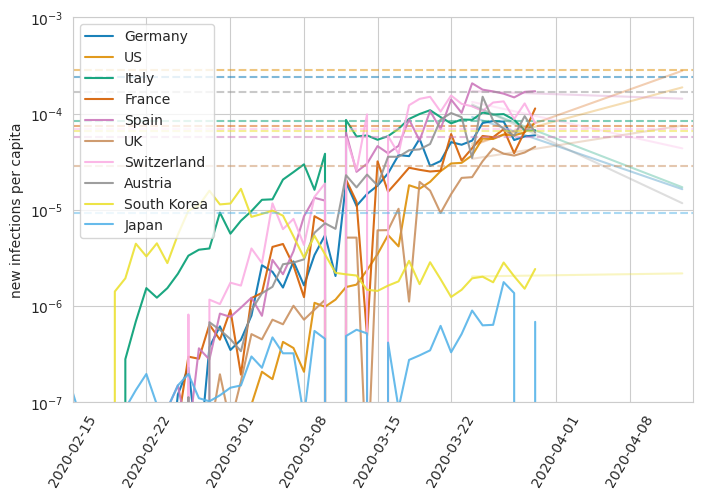
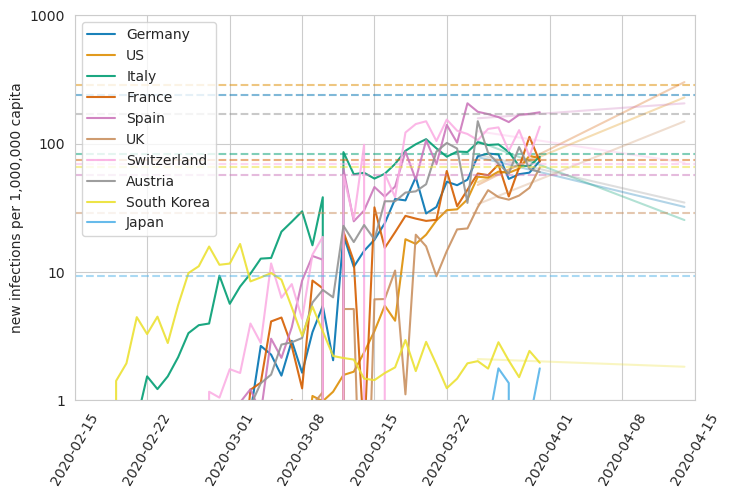
Change units of some plots from per capita to per 1,000,000 capita

diff --git a/kovid.py b/kovid.py
@@ -3,6 +3,7 @@ import numpy as np
 import scipy as sp
 import scipy.interpolate
 import matplotlib.pyplot as plt
+from matplotlib.ticker import ScalarFormatter
 import seaborn as sbn
 from os import listdir
 from os.path import isfile, join
@@ -327,7 +328,7 @@ def plot_new_infected(
         nr_inhabitants = country_list[c][0]
 
         icu_time = 18  # days
-        icu_limit = get_icu_limit(
+        icu_limit = 1e6*get_icu_limit(
             icus_per_capita=country_list[c][1], duration_of_stay=icu_time
         )
         icu_limit_max = icu_limit if icu_limit > icu_limit_max else icu_limit_max
@@ -339,7 +340,7 @@ def plot_new_infected(
                 np.max(ts.Date) + pd.Timedelta(forecast, unit="d"),
             ]
 
-        infected = np.array(ts["New Infections"]) / nr_inhabitants
+        infected = 1e6*np.array(ts["New Infections"]) / nr_inhabitants
 
         # Extrapolate based on the last 7 days
         _f = log_extrapol(np.arange(ext_base), infected[-ext_base:])
@@ -362,20 +363,22 @@ def plot_new_infected(
         ax.plot(date_lim, 2*[icu_limit], "--", color=pl.get_color(), alpha=0.5)
 
     ax.tick_params(axis="x", rotation=60)
+    # ax.yaxis.set_major_formatter(FormatStrFormatter('%.2f'))
     ax.set_xlim(date_lim)
-    ax.set_ylim([1e-7, 1e-3])
+    ax.set_ylim([1e0, 1e3])
     ax.grid(True)
     if scale == "log":
         ax.set_yscale("log")
     else:
         ax.set_ylim([0, 1.3 * icu_limit_max])
+    ax.yaxis.set_major_formatter(ScalarFormatter())
     if len(country_list) == 1:
-        ax.set_ylabel("new infections per capita ({})".format(country_list[0]))
+        ax.set_ylabel("new infections per 1,000,000 capita ({})".format(country_list[0]))
         fname = "{}_new_infections.png".format(
             country_list[0].replace(" ", "_").lower()
         )
     else:
-        ax.set_ylabel("new infections per capita")
+        ax.set_ylabel("new infections per 1,000,000 capita")
         fname = "{}_new_infections.png".format("countries")
         ax.legend()
     plt.savefig("png/" + fname, bbox_inches="tight")
@@ -393,7 +396,7 @@ def plot_confirmed(
 
         nr_inhabitants = country_list[c][0]
 
-        icu_limit = get_icu_limit(icus_per_capita=country_list[c][1])
+        icu_limit = 1e6*get_icu_limit(icus_per_capita=country_list[c][1])
 
         # Derive date limits if none are given
         if date_lim is None:
@@ -402,7 +405,7 @@ def plot_confirmed(
                 np.max(ts.Date) + pd.Timedelta(forecast, unit="d"),
             ]
 
-        confirmed = np.array(ts.Confirmed) / nr_inhabitants
+        confirmed = 1e6*np.array(ts.Confirmed) / nr_inhabitants
 
         # Extrapolate based on the last 7 days
         # _f = log_interp1d(np.arange(ext_base)[::ext_base-1], confirmed[-ext_base:][::ext_base-1])
@@ -425,19 +428,20 @@ def plot_confirmed(
             color=pl.get_color(),
             alpha=0.3,
         )
-        ax.plot(date_lim, 2 * [icu_limit], "--", color=pl.get_color(), alpha=0.9)
+        ax.plot(date_lim, 2 * [icu_limit], "--", color=pl.get_color(), alpha=0.5)
 
     ax.tick_params(axis="x", rotation=60)
     ax.set_xlim(date_lim)
-    ax.set_ylim([1e-6, 1e-1])
+    ax.set_ylim([1e0, 1e4])
     ax.grid(True)
     if scale == "log":
         ax.set_yscale("log")
+    ax.yaxis.set_major_formatter(ScalarFormatter())
     if len(country_list) == 1:
-        ax.set_ylabel("confirmed cases per capita ({})".format(country_list[0]))
+        ax.set_ylabel("confirmed cases per 1,000,000 capita ({})".format(country_list[0]))
         fname = "{}_confirmed.png".format(country_list[0].replace(" ", "_").lower())
     else:
-        ax.set_ylabel("confirmed cases per capita")
+        ax.set_ylabel("confirmed cases per 1,000,000 capita")
         fname = "{}_confirmed.png".format("countries")
         ax.legend()
     plt.savefig("png/" + fname, bbox_inches="tight")
@@ -487,7 +491,7 @@ def plot_estimated_from_delay(
             color=pl.get_color(),
             alpha=0.3,
         )
-        ax.plot(date_lim, 2 * [icu_limit], "--", color=pl.get_color(), alpha=0.9)
+        ax.plot(date_lim, 2 * [icu_limit], "--", color=pl.get_color(), alpha=0.5)
 
     ax.tick_params(axis="x", rotation=60)
     ax.set_xlim(date_lim)
@@ -521,17 +525,17 @@ def plot_estimated_from_deaths(
 
         nr_inhabitants = country_list[c][0]
 
-        icu_limit = get_icu_limit(icus_per_capita=country_list[c][1])
+        icu_limit = 1e6*get_icu_limit(icus_per_capita=country_list[c][1])
 
         # Derive date limits if none are given
         if date_lim is None:
             date_lim = [np.min(ts.Date), np.max(ts.Date)]
 
         # Derive averaged time series
-        deaths = np.array(ts.Deaths)
+        deaths = 1e6*np.array(ts.Deaths)
 
         # 5 days incubation + 2 days test delay
-        death_rate = 0.006
+        death_rate = 0.013
         estimated = deaths / death_rate / nr_inhabitants
 
         # Extrapolate based on the last 7 days
@@ -554,17 +558,18 @@ def plot_estimated_from_deaths(
             color=pl.get_color(),
             alpha=0.3,
         )
-        ax.plot(date_lim, 2 * [icu_limit], "--", color=pl.get_color(), alpha=0.9)
+        ax.plot(date_lim, 2 * [icu_limit], "--", color=pl.get_color(), alpha=0.5)
 
     ax.tick_params(axis="x", rotation=60)
     ax.set_xlim(date_lim)
-    ax.set_ylim([1e-6, 1e-1])
+    ax.set_ylim([1e0, 1e5])
     ax.grid(True)
     if scale == "log":
         ax.set_yscale("log")
+    ax.yaxis.set_major_formatter(ScalarFormatter())
     if len(country_list) == 1:
         ax.set_ylabel(
-            "estimated cases per capita based on {}% death rate ({})".format(
+            "estimated cases per 1,000,000 capita based on {}% death rate ({})".format(
                 100 * death_rate, country_list[0]
             )
         )
@@ -573,7 +578,7 @@ def plot_estimated_from_deaths(
         )
     else:
         ax.set_ylabel(
-            "estimated cases per capita based on {}% death rate".format(
+            "estimated cases per 1,000,000 capita based on {}% death rate".format(
                 100 * death_rate
             )
         )
@@ -612,7 +617,7 @@ def plot_deathrate(data, country_list, avg=5, date_lim=None, scale="log"):
 
         pl, = ax.plot(dates, deaths_per_day / nr_inhabitants, alpha=0.9, label=c)
         ax.plot(
-            date_lim, 2 * [icu_limit_in_deaths], "--", color=pl.get_color(), alpha=0.9
+            date_lim, 2 * [icu_limit_in_deaths], "--", color=pl.get_color(), alpha=0.5
         )
 
     ax.tick_params(axis="x", rotation=60)
@@ -743,7 +748,7 @@ if __name__ == "__main__":
 
     if args.plot:
         extrapolation_base = 6
-        forecast = 21
+        forecast = 14
         date_lim = pd.to_datetime(
             [
                 pd.Timestamp("2020-02-15"),
